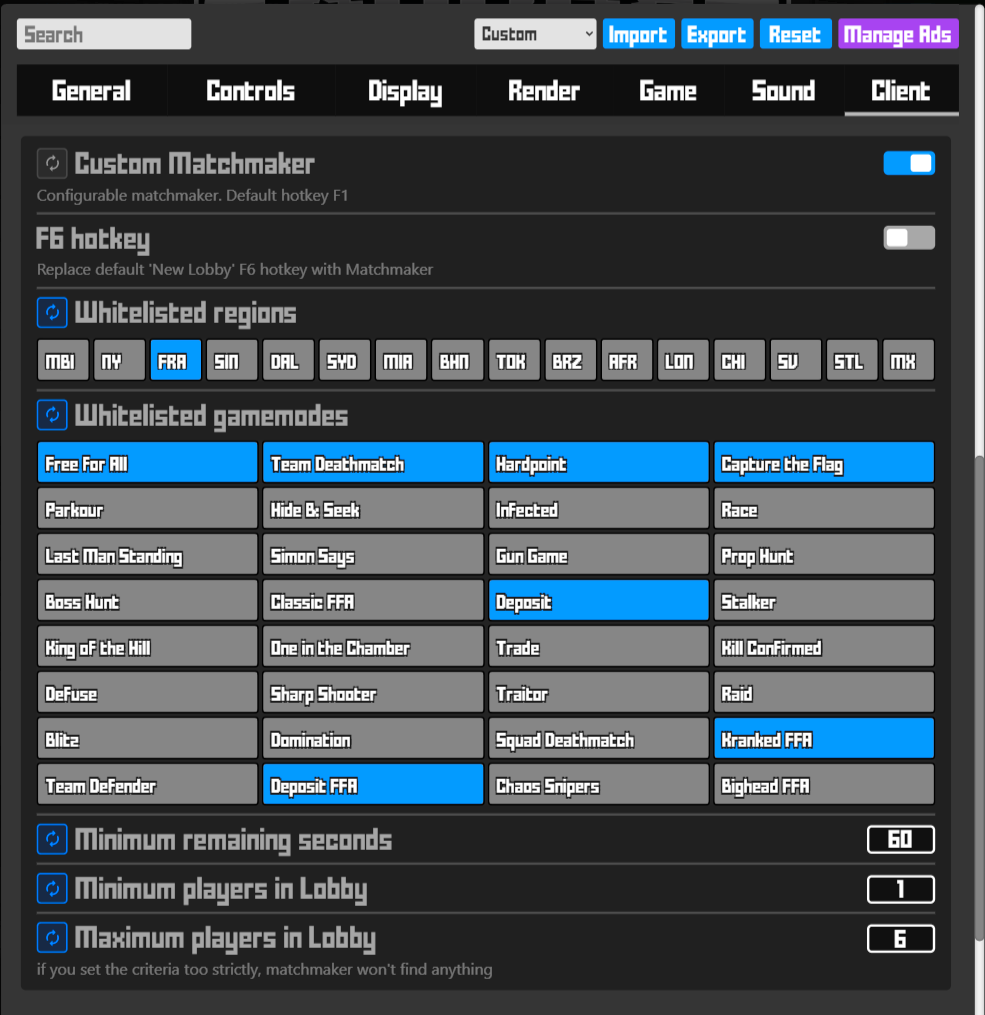
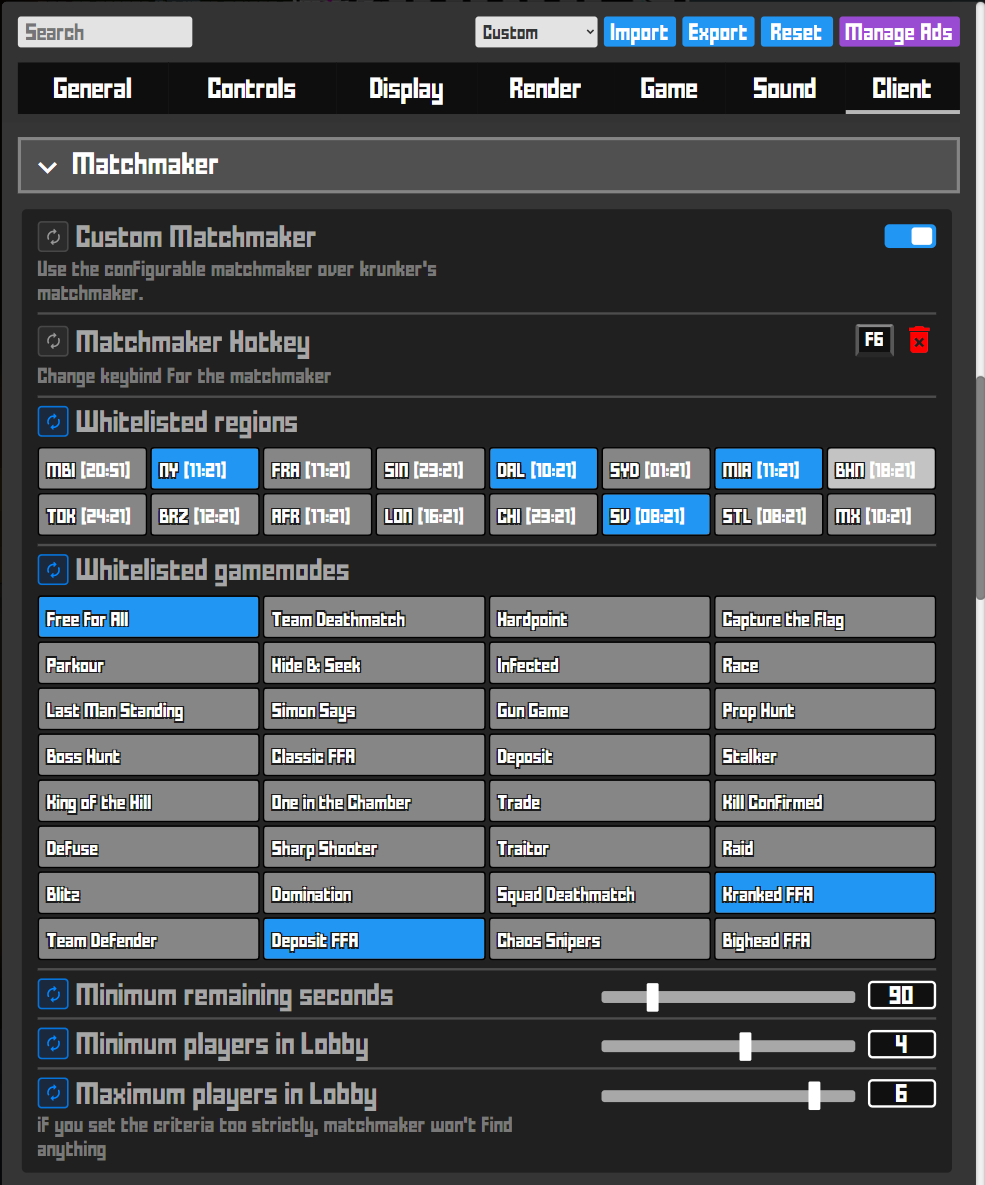
Fixes for keybind setting commits
- Fixed settings never being registered as unchanged after changing then unchanging a setting
- Fixed client keybindings being usable while chatting/focused on an input field
- Updated the matchmaker screenshot

diff --git a/src/utils.ts b/src/utils.ts
@@ -138,7 +138,41 @@ export function haveSameContents(array1: any[], array2: any[]) {
 	return true;
 }
 
-// Keyboard event settings use the first 3 characters for modifiers then the last characters for the event.code
+/**
+ * Checks whether or not 2 objects are equal.
+ * @param object1 the first object
+ * @param object2 the second object
+ * @returns whether or not they are equal
+ */
+export function objectsAreEqual(object1: {[key: string]: any}, object2: {[key: string]: any}) {
+	if (typeof object1 !== typeof object2) return false; // failsafe here just in case
+	if (Array.isArray(object1) && Array.isArray(object2) && !haveSameContents(object1, object2)) return false;
+	if (!haveSameContents(Object.keys(object1), Object.keys(object2))) return false;
+
+	// Now we can assume object1 and object2 have all the same keys.
+	for (const key of Object.keys(object1)) {
+		const object1Value = object1[key];
+		const object2Value = object2[key];
+
+		if (typeof object1Value !== typeof object2Value) return false;
+		// Now we can assume object1Value and object2Value have the same typeof
+
+		if (Array.isArray(object1Value)) {
+			if (!Array.isArray(object2Value)) return false; // We have to re-check here since arrays and objects have the same typeof
+			if (!haveSameContents(object1Value, object2Value)) return false;
+			continue;
+		}
+
+		if (typeof object1Value === "object") {
+			if (!objectsAreEqual(object1Value, object2Value)) return false;
+			continue;
+		}
+
+		if (object1Value !== object2Value) return false;
+	}
+
+	return true;
+}
 
 /**
  * Check if a KeyboardEvent matches a keybind setting.
@@ -147,6 +181,7 @@ export function haveSameContents(array1: any[], array2: any[]) {
  * @returns Whether or not the passed KeyboardEvent matches the keybind setting
  */
 export function keyboardEventMatchesCustomSetting(setting: KeybindUserPref, event: KeyboardEvent) {
+	if (document.activeElement.tagName == "INPUT") return; // Don't fire keybind inputs when in chat, typing something into a form, etc.
 	return event.key === setting.key && event.shiftKey === setting.shift && event.altKey === setting.alt && event.ctrlKey === setting.ctrl;
 }
 

diff --git a/src/settingsui.ts b/src/settingsui.ts
@@ -3,7 +3,7 @@ import { join } from 'path';
 import { writeFileSync, readFileSync, readdirSync } from 'fs';
 import os from "os";
 import { ipcRenderer, shell } from 'electron'; // add app if crashes
-import { createElement, haveSameContents, toggleSettingCSS, hasOwn, repoID, parseKeybindSettingDisplay, turnKeyboardEventIntoSettingValue } from './utils';
+import { createElement, haveSameContents, toggleSettingCSS, hasOwn, repoID, parseKeybindSettingDisplay, turnKeyboardEventIntoSettingValue, objectsAreEqual } from './utils';
 import { styleSettingsCSS, getTimezoneByRegionKey, strippedConsole } from './preload';
 import { su } from './userscripts';
 import { MATCHMAKER_GAMEMODES, MATCHMAKER_REGIONS } from './matchmaker';
@@ -228,8 +228,8 @@ function recalculateRefreshNeeded() {
 		const setting = cache(userPrefs[key]);
 		const cachedSetting = cache(userPrefsCache[key]);
 
-		const settingsEqual = Array.isArray(setting) && Array.isArray(cachedSetting)
-			? haveSameContents(setting, cachedSetting)
+		const settingsEqual = Array.isArray(setting) && Array.isArray(cachedSetting) ? haveSameContents(setting, cachedSetting)
+			: (typeof setting === "object" && typeof cachedSetting === "object") ? objectsAreEqual(setting, cachedSetting)
 			: setting === cachedSetting;
 
 		if (!settingsEqual) {
